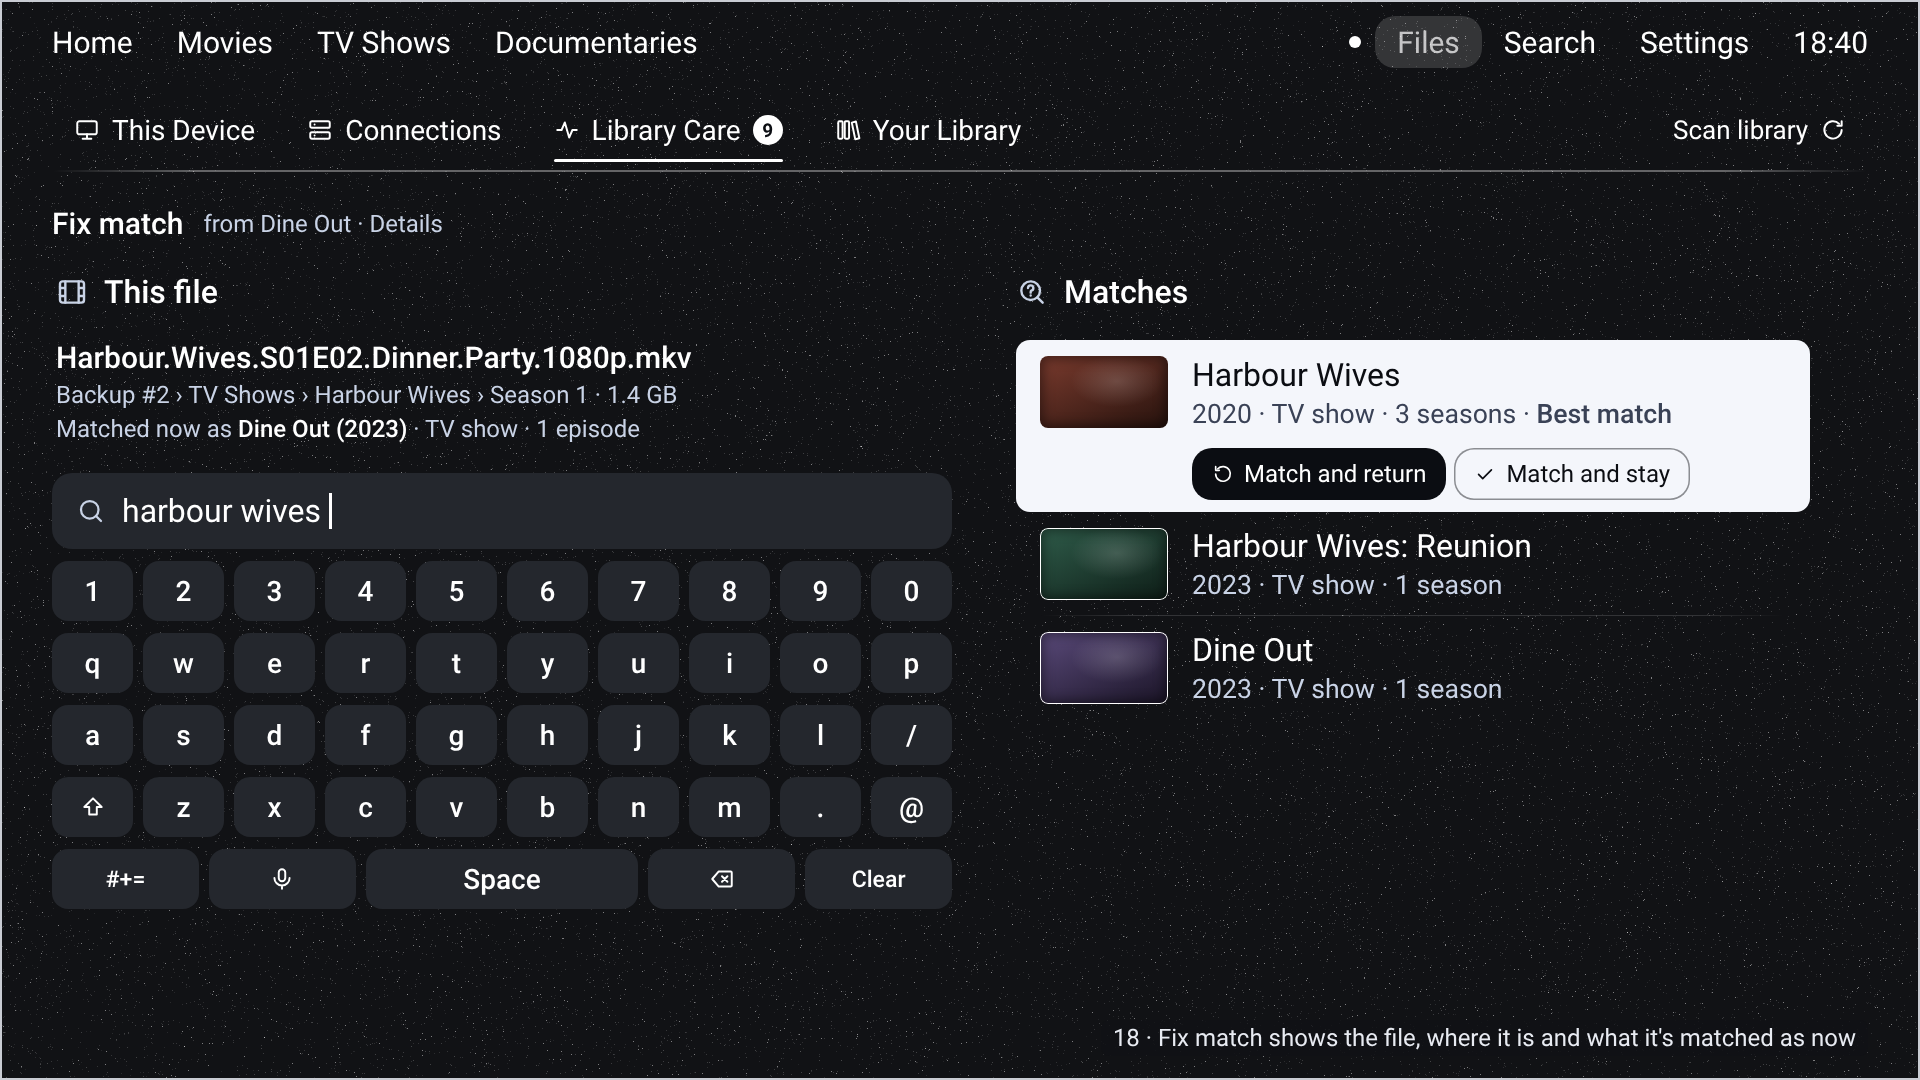
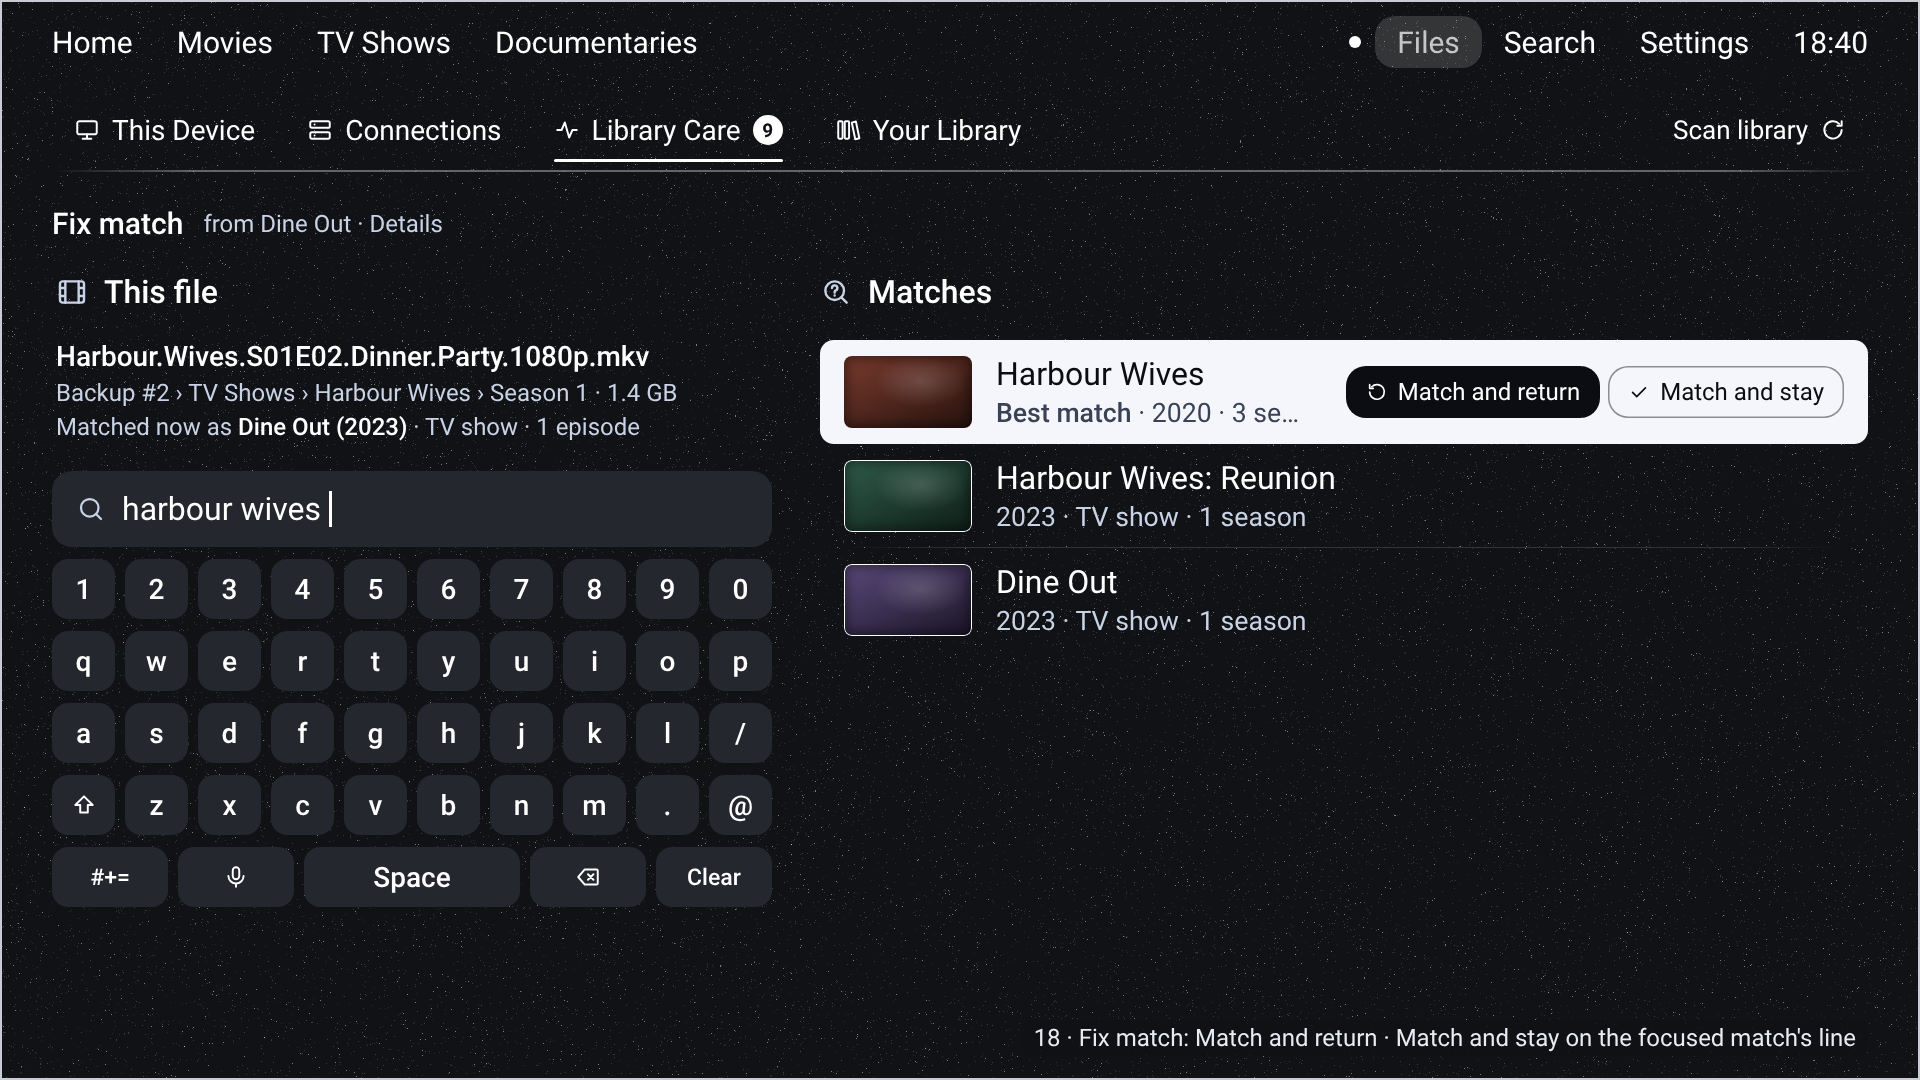
Files round 3 redraws and brief M5, M6

diff --git a/docs/design/proposals/files-v2/render.js b/docs/design/proposals/files-v2/render.js
@@ -708,11 +708,10 @@ function careRows(focus) {
 }
 
 function scanPart(focusScan) {
-  const btns = rbtns(focusScan ? [['This device', I.device], ['Backup #1', I.usb, true], ['Put.io', I.cloud],
-    ['Home server', I.server], ['Living-room NAS', I.nas]] : null, true);
+  const btns = '';
   const scan = `<div class="r std${focusScan ? ' on' : ''} last"><span class="ic">${svg(I.scan, 34)}</span><span class="t">
-    <b>Scan one source</b><small>${focusScan ? 'Put.io: Scanning · 42% · Backup #1: Waiting' : 'Look for new videos in one place only'}</small>
-    </span>${btns}<span class="ch"></span><i class="ln"></i></div>`;
+    <b>Scan one source</b><small>${focusScan ? 'Seedbox: Scanning · 42% · 1 waiting' : 'One drive, server or folder only'}</small>
+    </span>${btns}<span class="ch">${svg(I.chev, 28)}</span><i class="ln"></i></div>`;
   const rec = [
     { icon: I.cloud, name: 'Put.io', line: 'Today 18:28 · 3 new, 1 updated', pill: 'Finished' },
     { icon: I.nas, name: 'Living-room NAS', line: 'Today 17:28 · could not connect', pill: 'Failed', bad: true },
@@ -751,26 +750,25 @@ function f18() {
   const kb = `<div class="kb2">${keys.map((r, ri) => `<div class="krow">${r.map(k => `<span class="key${ri === 4
     ? (k === 'Space' ? ' sp' : ' w') : ''}">${KIC[k] ? svg(KIC[k], 26) : k}</span>`).join('')}</div>`).join('')}</div>`;
   const file = `<div class="fbox">${hd(I.film, 'This file', true)}
-    <div class="fn">Harbour.Wives.S01E02.Dinner.Party.1080p.mkv</div>
+    <div class="fn" style="font-size:28px">Harbour.Wives.S01E02.Dinner.Party.1080p.mkv</div>
     <div class="fl">Backup #2 › TV Shows › Harbour Wives › Season 1 · 1.4 GB</div>
     <div class="fl">Matched now as <b>Dine Out (2023)</b> · TV show · 1 episode</div></div>`;
   const m = [
-    { name: 'Harbour Wives', line: '2020 · TV show · 3 seasons · <b style="font-weight:500;color:inherit">Best match</b>', on: true,
+    { name: 'Harbour Wives', line: '<b style="font-weight:500;color:inherit">Best match</b> · 2020 · 3 seasons', on: true,
       btns: [['Match and return', I.back, true], ['Match and stay', I.ok]] },
     { name: 'Harbour Wives: Reunion', line: '2023 · TV show · 1 season' },
     { name: 'Dine Out', line: '2023 · TV show · 1 season', last: true },
   ];
-  const mrows = m.map((o, k) => `<div class="r mt${o.on ? ' on' : ''}${o.last ? ' last' : ''}"${o.on
-    ? ' style="height:172px;align-items:flex-start;padding-top:16px"' : ''}><span class="thumb"
-    style="background:${art(k)}"></span><span class="t"><b>${o.name}</b><small>${o.line}</small>${o.btns
-    ? rbtns(o.btns).replace('class="rb"', 'class="rb" style="width:auto;justify-content:flex-start;margin-top:14px"')
-    : ''}</span><i class="ln"></i></div>`)
+  const mrows = m.map((o, k) => `<div class="r mt${o.on ? ' on' : ''}${o.last ? ' last' : ''}"><span class="thumb"
+    style="background:${art(k)}"></span><span class="t" style="padding-right:16px"><b>${o.name}</b>
+    <small style="overflow:hidden;text-overflow:ellipsis">${o.line}</small></span>${o.btns
+    ? rbtns(o.btns).replace('class="rb"', 'class="rb" style="width:auto"') : ''}<i class="ln"></i></div>`)
     .join('');
   return bar() + tabs('Library Care', null).replace('<i>5</i>', '<i>9</i>')
     + `<div class="crumb">Fix match<em style="font-size:24px;margin-left:6px">from Dine Out · Details</em></div>`
-    + `<div class="fm">${file}<div class="sfield">${svg(I.search, 30)}harbour wives<i class="caret"></i></div>${kb}</div>
-    <div class="mres">${hd(I.question, 'Matches', true)}${mrows}</div>`
-    + '<div class="cap2">18 · Fix match shows the file, where it is and what it\'s matched as now</div>';
+    + `<div class="fm" style="width:720px">${file}<div class="sfield">${svg(I.search, 30)}harbour wives<i class="caret"></i></div>${kb}</div>
+    <div class="mres" style="left:820px;right:52px">${hd(I.question, 'Matches', true)}${mrows}</div>`
+    + '<div class="cap2">18 · Fix match: Match and return · Match and stay on the focused match\'s line</div>';
 }
 
 function f19() {
@@ -801,16 +799,40 @@ function f20() {
     + '<div class="cap2">20 · Missing files (Couldn\'t be read and Not matched work the same way)</div>';
 }
 
+function f20b() {
+  const rows = [
+    { icon: I.film, name: 'Blue.Planet.III.S01E02.2160p.mkv', line: 'Looks like Blue Planet III · S1 E2 · from the file name',
+      on: true, btns: [['Fix match', I.fix, true], ['It\'s right', I.ok]] },
+    { icon: I.film, name: 'holiday-2019-final-cut.mp4', line: 'No guess yet · Backup #1 › Home videos' },
+    { icon: I.film, name: 'Kingdom.of.Glass.Part.2.mkv', line: 'Looks like Kingdom of Glass and Long Shadows (2024)', last: true },
+  ];
+  return bar() + tabs('Library Care', null).replace('<i>5</i>', '<i>9</i>') + subCrumb('Not matched', '3 videos')
+    + `<div class="list" style="top:270px">${rows.map(crow).join('')}<div style="margin-top:30px;padding-left:24px;
+    font-size:24px;color:#c9d3e6;display:flex;align-items:center;gap:12px">${ring(24)}Matching 2 new titles: they're not
+    listed while Supernova is still looking them up.</div></div>`
+    + '<div class="cap2">20b · Not matched: the best guess, with Fix match · It\'s right</div>';
+}
+
 function f21() {
+  const st = (t, bad) => `<span style="margin-left:auto;padding-left:40px;font-size:22px;color:${bad ? '#ffb4a8' : '#c9d3e6'}">${t}</span>`;
+  const it = (ic, n, t, f) => `<div class="it${f ? ' f' : ''}">${svg(ic, 26)}${n}${f ? st(t).replace('#c9d3e6', '#3a4256') : st(t)}</div>`;
+  const menu = `<div class="menu" style="right:72px;top:540px;width:800px;padding-right:56px">
+    <div style="position:absolute;right:14px;top:18px;color:#fff;opacity:.3">${svg(I.up, 30)}</div>
+    <div style="position:absolute;right:14px;bottom:18px;color:#fff">${svg(I.down, 30)}</div>
+    ${it(I.device, 'This device', 'Today 18:02')}${it(I.usb, 'Backup #1', 'Waiting')}${it(I.usb, 'Backup #2', 'Today 16:02')}
+    <div class="g">Seedbox · SFTP</div>${it(I.server, 'All of Seedbox', 'Scanning · 42%')}${it(I.folder, 'Movies', 'Today 17:40', true)}
+    ${it(I.folder, 'TV', 'Today 17:40')}
+    <div class="g">Living-room NAS · SMB</div>${it(I.nas, 'All of Living-room NAS', 'Couldn\'t connect · 17:28')}
+    ${it(I.folder, 'Movies', 'Today 17:28')}${it(I.folder, 'TV Shows', 'Today 17:28')}${it(I.folder, 'Documentaries', 'Today 17:28')}</div>`;
   return bar('ring') + tabs('Library Care', null).replace('<i>5</i>', '<i>9</i>')
-    + `<div class="list" style="top:212px">${careRows('')}${scanPart(true)}</div>`
-    + '<div class="cap2">21 · Scan one source: one button per source; pressed ones wait their turn</div>';
+    + `<div class="list" style="top:212px">${careRows('')}${scanPart(true)}</div>` + menu
+    + '<div class="cap2">21 · Scan one source ›: every source and its folders, with where each stands</div>';
 }
 
 const ROUND23 = [['09-connections', f09, 1380], ['10-test-failed', f10], ['11-remove-undo', f11],
   ['12-new-connection', f12], ['12c-type-menu', f12c], ['12b-sftp-encryption-greyed', f12b], ['13-edit-connection', f13], ['14-sign-in-found', f14], ['15-network-options', f15, 1380],
   ['16-library-care', f16, 1900], ['17-to-fix', f17], ['18-fix-match-file', f18], ['19-excluded-from-hero', f19],
-  ['20-missing-files', f20], ['21-scan-one-source', f21, 1900]];
+  ['20-missing-files', f20], ['20b-not-matched', f20b], ['21-scan-one-source', f21, 1900]];
 
 
 // ---------- Round 4: Your Library (read-only, nothing focusable) ----------

diff --git a/docs/0.158/BRIEF_0158_C.md b/docs/0.158/BRIEF_0158_C.md
@@ -47,6 +47,14 @@ finished to its sheet (every action pressed and rendered) before the next:
      in full mark their missing files; only folders that failed hold back, and Library Care says so ("Couldn't check 1
      folder on Home server"). Diagnostics record per scan how many were marked missing and why any were held back (the
      0.159 "record why" rule, early). Tests: a scan with one failing subfolder still marks a missing file in a good one.
+   - **M5. Titles still being matched are listed as Not matched (owner, 26 Nov).** New files whose TMDB look-up hasn't
+     run yet show in Library Care › Not matched (and its count) as if they had failed. Only titles whose look-up has
+     finished without a match go there; while look-ups are pending, the Not matched page says "Matching N new titles:
+     they're not listed while Supernova is still looking them up." Test: a freshly scanned file is not counted as Not
+     matched until its look-up has ended.
+   - **M6. Renaming a connection doesn't save (owner, 26 Nov).** A connection renamed in its edit form keeps its old
+     name in Connections and Library Care. Save the new name and show it everywhere the connection is named
+     (Connections, Library Care, scans, Missing files) at once. Test: rename, leave Files, come back: the new name shows.
 9. **Diagnostics record why, not just what (owner, 26 Nov; moved here from 0.159):** every failure event carries its
    reason: the error, the step (connecting, listing, deleting…), the kind of source, and the server's answer (status
    code and message). A test fails the build if any failure is recorded without one. Where the reason truly isn't
